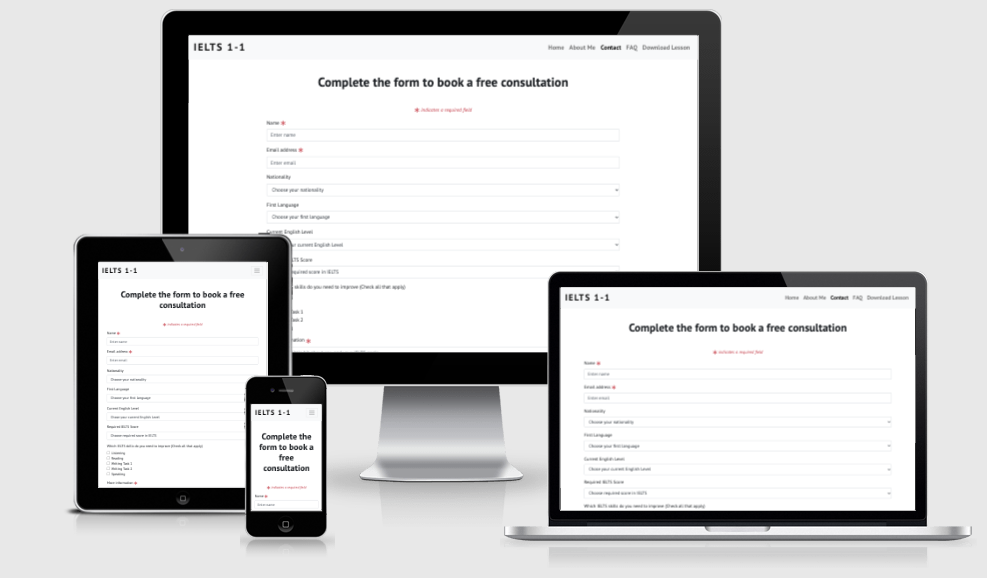
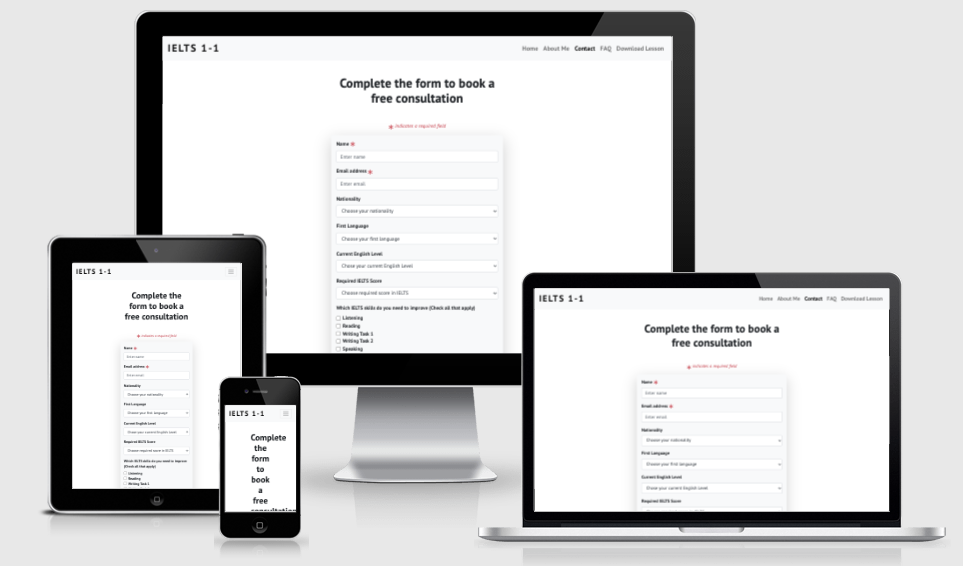
Add new screenshots and edit testing proceedure to Readme and testing files to match with latest changes.

Changed region(s): [[0.0312, 0.0, 0.9969, 0.9912], [0.3115, 0.1201, 0.5919, 0.2403], [0.6542, 0.6608, 0.7165, 0.7208]]

diff --git a/testing.md b/testing.md
@@ -36,7 +36,7 @@ The lighthouse score in google chrome developer tools was used on each page. Res
     * A site user can learn more about the teacher from the 'Learn from the best' sub section on the homepage or visit the About Me page in which there is a profile image, a brief article about the tutor's experience and student testimonials.
 
 3. Examples of the tutor’s teaching materials.
-    * A site user can download an example of the tutor's teaching material by clicking the download button on the homepage or the link in the navigation bar. 
+    * A site user can download an example of the tutor's teaching material by clicking the link in the navigation bar. 
 
 4. Information about the tutor’s method and style of teaching.
     * The site offers an about me page which not only gives information about the tutor but also their methods of teaching. The student testimonial section also offers site users an opportunity to learn about what other students say about the tutors teaching methods and styles.
@@ -73,7 +73,7 @@ All steps were taken on Google Chrome, Firefox, Safari and Internet Explorer on 
     * Click the **About** link to check it brings user to the about me page and **About** link is selected.
     * Click the **Contact** link to check it brings user to the contact page and **Contact** link is selected.
     * Click the **FAQ** link to check it brings user to the FAQ page **FAQ** link is selected.
-    * Click the **Download Lesson** link to check it successfully downloads a copy of the Free Lesson PDF.
+    * Click the  **Download** link to check it successfully downloads the Free Lesson PDF.
     * Check on mobile screen that nav bar collapses correctly into hamburger and all links work as above. 
 
 2. Footer
@@ -85,7 +85,7 @@ All steps were taken on Google Chrome, Firefox, Safari and Internet Explorer on 
     * Check Hero Image loads quickly and is displayed clearly.
     * Check Heading a re clear and easy to read.
     * Hover over button to check hover effect works
-    * Click download button to check it successfully downloads the Free Lesson PDF.
+    * Click book a session button to check it successfully takes the user to the contact page.
     * Check that headings are centred and the sub-heading and buttons are arranged beneath the central logo of the hero-image on mobile screens. 
 
 2. Learn More Section
@@ -121,6 +121,7 @@ All steps were taken on Google Chrome, Firefox, Safari and Internet Explorer on 
     * Enter name and click send to check  that the form alerts me to enter a valid email.
     * Click email input field to check highlighting effect is working.
     * Enter email address without @ symbol to check that the form alerts me to enter a valid email address.
+    * Enter invalid character after @ symbol to check that the form alerts me to enter a valid email address.
     * Click dropdown button on nationality input to check that nationality list appears.
     * Hover over  nationality input to check that form asks me to select an item in list.
     * Click dropdown button on first language input to check that languages list appears.
@@ -168,9 +169,6 @@ All steps were taken on Google Chrome, Firefox, Safari and Internet Explorer on 
 ![Screenshot of subtitle placement issue](assets/images/screenshots/screenshot-subtitle-issue.png)
 
 The cause of the issue was that the media query  set up to move the subheading below the center of the hero image was only set up for tablet resolutions and above. 
-
-![Screenshot of issue]()
-
 The media query was changed to incorporate resolutions from width from 452 and above screen sizes to fix the issue.
 
 
@@ -178,27 +176,26 @@ The media query was changed to incorporate resolutions from width from 452 and a
 
 ![Screenshot of issue](assets/images/screenshots/screenshot-footer-hover-issue.png)
 
-The solution was to target the footer id and the hover pseudo class and add the following CSS code
+The solution was to target the footer class and the hover pseudo class and add the following CSS code
 
-    ```
-    #footer>a:hover {
+```
+    .footer>a:hover {
     text-decoration: none;
-    color: aliceblue}
-    ```
+    color: aliceblue;}
+```
 
-3.  The most significant issue related to the buttons in the learn more section on the homepage. Early on I ran into the problem that because the text above the buttons was of differing length, the horizontal alignment of the buttons would not match due to the content above it.
+3.  The most significant issue related to the buttons in the bottom section on the homepage. Early on I ran into the problem that because the text above the buttons was of differing length, the horizontal alignment of the buttons would not match due to the content above it.
     The first step I took to solve this issue was instead of using a simple bootstrap 3-column layout, I utilised the bootstrap card-deck component to help with the responsiveness. However the issue was still apparent.
 
 ![Screenshot of issue](assets/images/screenshots/screenshot-button-issue.png)
 
-The issue was finally solved with the help of the code institute tutor support and the use of a min-height for each card body and positioning the buttons absolutely at the bottom of each card body. 
+The issue was finally solved with the help of the code institute tutor support and the use of a min-height for each card body and positioning the buttons absolutely. 
  
-
-``` .btn-blue {
+```
+.btn-blue {
     position: absolute;
     left: 50%;
-    transform: translate(-50%, 0);
-}
+    transform: translate(-50%, 0);}
 ```
 
 Then media queries were used to ensure that at each breakpoint in which the cards where horizontally aligned there was enough space for the buttons to remain horizontally aligned and not overlap with the text above them.  

diff --git a/README.md b/README.md
@@ -67,6 +67,7 @@ background: linear-gradient(105deg, rgba(50, 116, 166, 1) 0%, rgba(2, 34, 59, 1)
 ```
 
 Any text that laid over the background colour was given the colour of 'Aliceblue' to contrast it. The download button on the homepage was given a red colour to stand out against the blue background while matching the red diagonal stripe that goes through the hero image. 
+The FAQ accordion was also give a blue background colour to maintain consistency throughout the site. 
 
 ## **Features**
 
@@ -100,7 +101,7 @@ Any text that laid over the background colour was given the colour of 'Aliceblue
 
 * The hero image shows four wooden blocks spelling out IELTS on a blue background with a red diagonal stripe going through. This image was chosen for its bright colour and simplicity. 
 * Overlaying the image are two taglines "Learn IELTS Online" and "Improve your band score online" in the colour 'Aliceblue' with a slight shadow to stand out against the blue background. On larger screens this text is left aligned and on mobile screens it is centred, with the second tag-line appearing below the centre of the hero-image. 
-* Below the text is a red download button when clicked will download a copy of a PDF lesson.
+* Below the text is a red button labelled 'Book a Session' which when clicked will take the user to the contact page.
 
 **Cards**
 
@@ -144,9 +145,8 @@ Any text that laid over the background colour was given the colour of 'Aliceblue
     * An IELTS skills check box field containing the 5 major exam parts of the IELTS exam. 
     * A text area in which students can give more information. The reason which this is a required field is it gives the site owner an opportunity to see the prospective students writing ability. 
 
-  
-
  **FAQ Page**
+
  ![IELTS 1-1 FAQ Page](assets/images/screenshots/faq-mockup.png "IELTS 1-1 FAQ Page")
  
  **Accordion**
@@ -179,6 +179,9 @@ Any text that laid over the background colour was given the colour of 'Aliceblue
 
 * [Github](https://github.com/)
     * GitHub is used to store the projects code after being pushed from Git.
+
+* [Gitpod](https://www.gitpod.io/)   
+    * Gitpod was used as the main IDE to develop the site. 
 
 * [Balsamiq](https://balsamiq.com/)
     * Balsamiq was used to create the wireframes during the design process.
@@ -230,19 +233,19 @@ To run this site locally the following steps should be taken.
 
 ### Code
 
-[Bootstrap 4](https://getbootstrap.com/)  grid system a was used to make the site responsive and the class library was used for card deck, contact form and faq accordion components and general styling. 
+* *Bootstrap 4](https://getbootstrap.com/)  grid system a was used to make the site responsive and the class library was used for card deck, contact form and faq accordion components and general styling. 
 
-The dropdown list of nationalities in the contact form came from this [github gist post](https://gist.github.com/didats/8154290)
+* The dropdown list of nationalities in the contact form came from this [github gist post](https://gist.github.com/didats/8154290)
 
-The dropdown list of languages in the contact form came from this [stack overflow post](https://stackoverflow.com/questions/38909766/list-of-all-country-languages-for-dropdown-select-menu-html-form)
+* The dropdown list of languages in the contact form came from this [stack overflow post](https://stackoverflow.com/questions/38909766/list-of-all-country-languages-for-dropdown-select-menu-html-form)
 
-The background linear-gradient colour of the footer was created by uploading the hero image to this [CSS Gradient Generator] (https://cssgradient.io/)
+* The background linear-gradient colour of the footer was created by uploading the hero image to this [CSS Gradient Generator](https://cssgradient.io/)
 
-The flag icons for the student testimonials were imported from this [library] (https://github.com/lipis/flag-icon-css)
+* The flag icons for the student testimonials were imported from this [library](https://github.com/lipis/flag-icon-css)
 
-The Plus/ Minus icons on for the Bootstrap FAQ accordion was adapted from this [codepen] (https://codepen.io/kamelagandhi/pen/WjOpVY)
+* The Plus/ Minus icons on for the Bootstrap FAQ accordion was adapted from this [codepen](https://codepen.io/kamelagandhi/pen/WjOpVY)
 
-The sticky footer code was adapted from this [youtube video](https://www.youtube.com/watch?v=qlCIXXhSX6Y&t=385s&ab_channel=DaniKrossing)
+* The code for the footer was taken from this [article](https://dev.to/niorad/keeping-the-footer-at-the-bottom-with-css-grid-15mf) 
 
 
 
